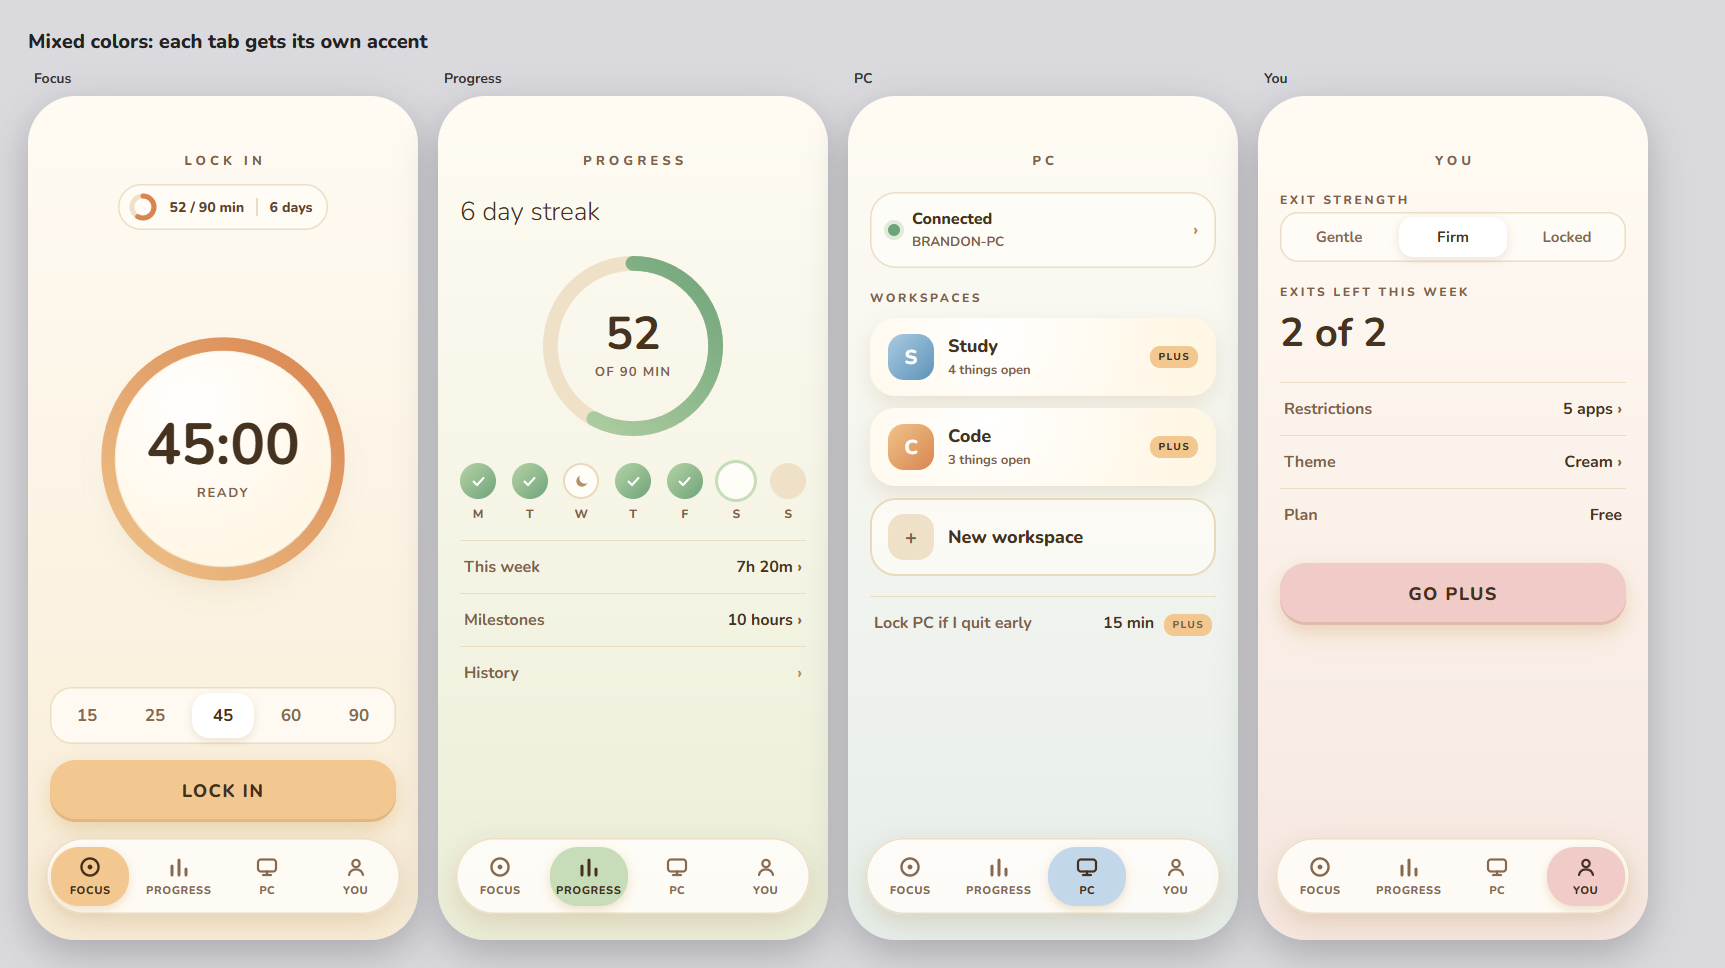
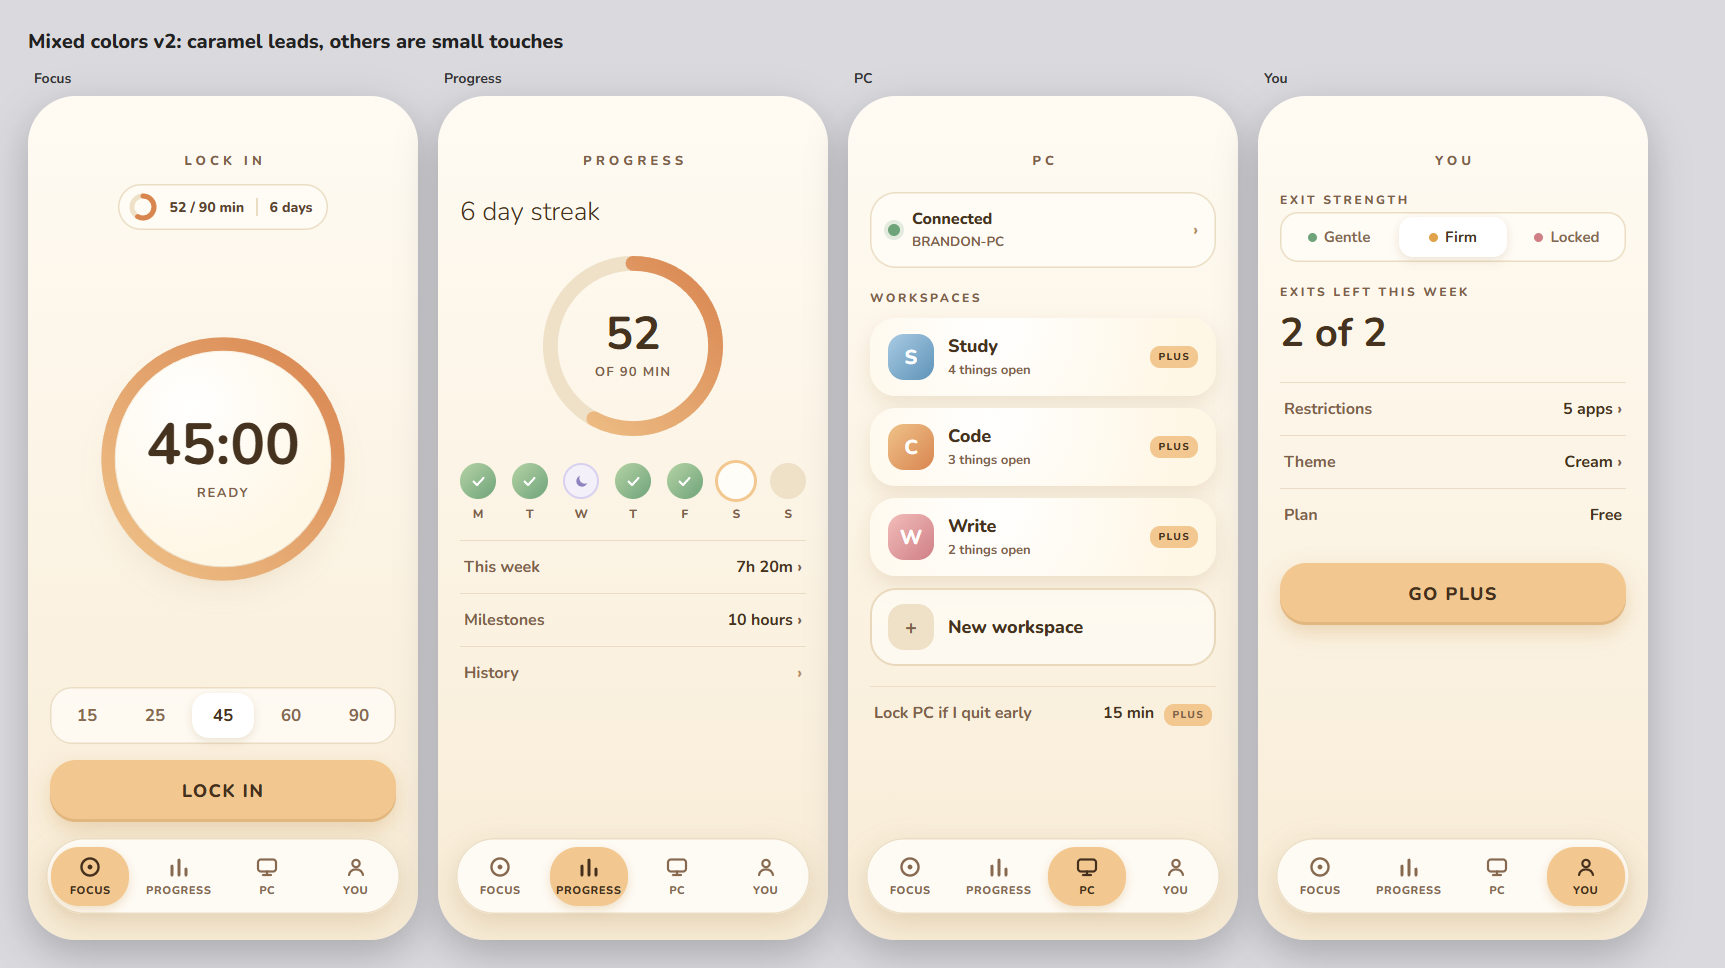
Color mix v2: caramel leads, other colors are small touches

diff --git a/docs/design/colors-ideas.html b/docs/design/colors-ideas.html
@@ -2,7 +2,7 @@
 <html lang="en">
 <head>
 <meta charset="utf-8">
-<title>Lock In mixed colors</title>
+<title>Lock In mixed colors v2</title>
 <meta name="viewport" content="width=device-width, initial-scale=1">
 <link href="https://fonts.googleapis.com/css2?family=Nunito:wght@300;400;600;700;800&display=swap" rel="stylesheet">
 <style>
@@ -13,10 +13,10 @@
   .col p { font-size: 14px; font-weight: 700; color: #333; margin: 0 0 8px 6px; }
   .phone { width: 390px; height: 844px; border-radius: 48px; overflow: hidden; position: relative;
            display: flex; flex-direction: column; align-items: center; padding: 56px 22px 118px;
-           background: linear-gradient(180deg, #FFFBF3 0%, var(--bg2) 100%); color: #45321F; box-shadow: 0 14px 40px rgba(0,0,0,.22); }
+           background: linear-gradient(180deg, #FFFBF3 0%, #F8ECD6 100%); color: #45321F; box-shadow: 0 14px 40px rgba(0,0,0,.22); }
   .title { font-weight: 800; font-size: 13px; letter-spacing: .32em; text-indent: .32em; color: #7D6249; }
   .btn { width: 100%; padding: 19px 0; border-radius: 26px; text-align: center; font-weight: 800; font-size: 18px; letter-spacing: .08em;
-         background: var(--fill); color: #45301D; box-shadow: 0 8px 20px rgba(200,150,80,.30), inset 0 -3px 0 rgba(140,95,40,.16); }
+         background: #F2C890; color: #45301D; box-shadow: 0 8px 20px rgba(200,150,80,.30), inset 0 -3px 0 rgba(140,95,40,.16); }
   .btn.quiet { background: #FFFDF8DD; color: #7A5A3E; box-shadow: inset 0 0 0 2px #E9D8BB; }
 
   /* tab bar */
@@ -24,7 +24,7 @@
           background: #FFFDF8E6; box-shadow: 0 10px 28px rgba(150,110,60,.22), inset 0 0 0 1.5px #EBDDC3; }
   .tab { display: flex; flex-direction: column; align-items: center; gap: 4px; width: 78px; padding: 8px 0; border-radius: 28px; font-size: 11px; font-weight: 800; letter-spacing: .06em; color: #86694F; }
   .tab svg { width: 24px; height: 24px; }
-  .tab.on { background: var(--fill); color: #45301D; box-shadow: 0 4px 10px rgba(200,150,80,.28); }
+  .tab.on { background: #F2C890; color: #45301D; box-shadow: 0 4px 10px rgba(200,150,80,.28); }
 
   .clockwrap { margin: auto 0; position: relative; width: 250px; height: 250px; }
   .clockwrap svg { width: 250px; height: 250px; transform: rotate(-90deg); overflow: visible; }
@@ -46,38 +46,31 @@
   .week { display: flex; justify-content: space-between; width: 100%; margin-top: 16px; }
   .day { display: flex; flex-direction: column; align-items: center; gap: 7px; font-size: 12px; font-weight: 800; color: #7D6249; }
   .dot { width: 36px; height: 36px; border-radius: 50%; background: #EFE1C8; display: grid; place-items: center; }
-  .dot.full { background: linear-gradient(135deg, var(--a1), var(--a2)); color: #fff; }
-  .dot.rest { background: #FFFDF8; box-shadow: inset 0 0 0 2px #E9D8BB; color: #B58E62; }
-  .dot.now { background: #FFFDF8; box-shadow: 0 0 0 3px var(--fill); }
+  .dot.full { background: linear-gradient(135deg, #B5D3A5, #6FA37A); color: #fff; }
+  .dot.rest { background: #F3F0FA; box-shadow: inset 0 0 0 2px #D8D0EE; color: #8F83BF; }
+  .dot.now { background: #FFFDF8; box-shadow: 0 0 0 3px #F2C890; }
   .dot svg { width: 17px; height: 17px; }
   .rows { width: 100%; margin-top: 18px; }
   .row { display: flex; justify-content: space-between; align-items: center; padding: 15px 4px; border-top: 1.5px solid #EBDDC3; font-weight: 700; font-size: 16px; }
   .row span:first-child { color: #7D6249; }
   .cards { width: 100%; display: flex; flex-direction: column; gap: 12px; margin-top: 18px; }
   .card { width: 100%; border-radius: 26px; padding: 16px 18px; display: flex; align-items: center; gap: 14px; background: radial-gradient(circle at 35% 15%, #FFFFFF, #FFF7E6 80%); box-shadow: 0 8px 20px rgba(160,120,60,.16); }
-  .ico { width: 46px; height: 46px; border-radius: 16px; display: grid; place-items: center; background: linear-gradient(135deg, var(--a1), var(--a2)); color: #fff; font-weight: 800; font-size: 20px; }
+  .ico { width: 46px; height: 46px; border-radius: 16px; display: grid; place-items: center; background: linear-gradient(135deg, #F7D3A0, #E39A62); color: #fff; font-weight: 800; font-size: 20px; }
   .card b { font-size: 18px; font-weight: 800; display: block; }
   .card small { font-size: 13px; font-weight: 700; color: #7D6249; }
   .status { width: 100%; margin-top: 22px; border-radius: 26px; padding: 16px 18px; display: flex; align-items: center; gap: 12px; background: #FFFDF8CC; box-shadow: inset 0 0 0 1.5px #EBDDC3; font-weight: 800; }
-  .led { width: 12px; height: 12px; border-radius: 50%; background: #7FB77E; box-shadow: 0 0 0 4px #7FB77E33; }
-  .plus { font-size: 10px; font-weight: 800; letter-spacing: .14em; padding: 4px 8px; border-radius: 10px; background: var(--fill); color: #45301D; }
+  .led { width: 12px; height: 12px; border-radius: 50%; background: #6FA37A; box-shadow: 0 0 0 4px #6FA37A33; }
+  .plus { font-size: 10px; font-weight: 800; letter-spacing: .14em; padding: 4px 8px; border-radius: 10px; background: #F2C890; color: #45301D; }
   .seg { display: flex; gap: 6px; padding: 5px; border-radius: 18px; background: #FFFDF8CC; box-shadow: inset 0 0 0 1.5px #EBDDC3; margin-top: 4px; width: 100%; }
   .seg div { flex: 1; text-align: center; padding: 10px 0; border-radius: 14px; font-weight: 700; font-size: 15px; color: #86694F; }
   .seg div.on { background: #fff; color: #45321F; box-shadow: 0 3px 10px rgba(150,110,60,.18); }
+  .sd { display:inline-block; width:9px; height:9px; border-radius:50%; margin-right:7px; }
   .lab { align-self: flex-start; margin-top: 22px; font-size: 12px; font-weight: 800; letter-spacing: .22em; color: #7D6249; }
   .chev { color: #B58E62; font-weight: 800; }
-
-  .g1 { stop-color: var(--a1); } .g2 { stop-color: var(--a2); }
-  .plus { background: #F2C890 !important; }
-  .P1 { --fill:#F2C890; --a1:#EFC38A; --a2:#D98550; --bg2:#F8ECD6; }
-  .P2 { --fill:#C7DDB9; --a1:#B5D3A5; --a2:#6FA37A; --bg2:#EBEED8; }
-  .P3 { --fill:#C2D8EA; --a1:#A9CBE3; --a2:#5E93B8; --bg2:#E6EEEA; }
-  .P4 { --fill:#F1CBC7; --a1:#F2BDB9; --a2:#CF7F86; --bg2:#F6E7E0; }
-  .led { background:#6FA37A; box-shadow:0 0 0 4px #6FA37A33; }
 </style>
 </head>
 <body>
-<h2>Mixed colors: each tab gets its own accent</h2>
+<h2>Mixed colors v2: caramel leads, others are small touches</h2>
 <div class="phones">
 
 <!-- icons -->
@@ -89,11 +82,11 @@
 </defs></svg>
 
   <div class="col"><p>Focus</p>
-  <div class="phone P1">
+  <div class="phone">
     <div class="title">LOCK IN</div>
-    <div class="today"><svg width="30" height="30" viewBox="0 0 30 30" style="transform:rotate(-90deg)"><circle cx="15" cy="15" r="11" fill="none" stroke="#EFE1C8" stroke-width="5"/><circle cx="15" cy="15" r="11" fill="none" style="stroke:var(--a2)" stroke-width="5" stroke-linecap="round" stroke-dasharray="40 69"/></svg><span>52 / 90 min</span><div class="sep"></div><span>6 days</span></div>
+    <div class="today"><svg width="30" height="30" viewBox="0 0 30 30" style="transform:rotate(-90deg)"><circle cx="15" cy="15" r="11" fill="none" stroke="#EFE1C8" stroke-width="5"/><circle cx="15" cy="15" r="11" fill="none" stroke="#D98550" stroke-width="5" stroke-linecap="round" stroke-dasharray="40 69"/></svg><span>52 / 90 min</span><div class="sep"></div><span>6 days</span></div>
     <div class="clockwrap"><div class="disc"></div>
-      <svg viewBox="0 0 300 300"><defs><linearGradient id="a" x1="0" y1="0" x2="1" y2="1"><stop offset="0" class="g1"/><stop offset="1" class="g2"/></linearGradient></defs><circle cx="150" cy="150" r="138" fill="none" stroke="#EFE1C8" stroke-width="16"/><circle cx="150" cy="150" r="138" fill="none" stroke="url(#a)" stroke-width="16" stroke-linecap="round" stroke-dasharray="867 867"/></svg>
+      <svg viewBox="0 0 300 300"><defs><linearGradient id="a" x1="0" y1="0" x2="1" y2="1"><stop offset="0" stop-color="#EFC38A"/><stop offset="1" stop-color="#D98550"/></linearGradient></defs><circle cx="150" cy="150" r="138" fill="none" stroke="#EFE1C8" stroke-width="16"/><circle cx="150" cy="150" r="138" fill="none" stroke="url(#a)" stroke-width="16" stroke-linecap="round" stroke-dasharray="867 867"/></svg>
       <div class="face"><div class="time">45:00</div><div class="cap">Ready</div></div></div>
     <div class="sel"><div>15</div><div>25</div><div class="on">45</div><div>60</div><div>90</div></div>
     <div class="btn">LOCK IN</div>
@@ -101,10 +94,10 @@
   </div></div>
 
   <div class="col"><p>Progress</p>
-  <div class="phone P2" style="align-items:stretch">
+  <div class="phone" style="align-items:stretch">
     <div class="title" style="align-self:center">PROGRESS</div>
     <div class="big">6 day streak</div>
-    <div class="bigring" style="align-self:center"><svg viewBox="0 0 230 230"><defs><linearGradient id="b" x1="0" y1="0" x2="1" y2="1"><stop offset="0" class="g1"/><stop offset="1" class="g2"/></linearGradient></defs><circle cx="115" cy="115" r="100" fill="none" stroke="#EFE1C8" stroke-width="18"/><circle cx="115" cy="115" r="100" fill="none" stroke="url(#b)" stroke-width="18" stroke-linecap="round" stroke-dasharray="363 628"/></svg><div class="face"><b>52</b><span>OF 90 MIN</span></div></div>
+    <div class="bigring" style="align-self:center"><svg viewBox="0 0 230 230"><defs><linearGradient id="b" x1="0" y1="0" x2="1" y2="1"><stop offset="0" stop-color="#EFC38A"/><stop offset="1" stop-color="#D98550"/></linearGradient></defs><circle cx="115" cy="115" r="100" fill="none" stroke="#EFE1C8" stroke-width="18"/><circle cx="115" cy="115" r="100" fill="none" stroke="url(#b)" stroke-width="18" stroke-linecap="round" stroke-dasharray="363 628"/></svg><div class="face"><b>52</b><span>OF 90 MIN</span></div></div>
     <div class="week">
       <div class="day"><div class="dot full"><svg viewBox="0 0 24 24" fill="none" stroke="currentColor" stroke-width="3" stroke-linecap="round" stroke-linejoin="round"><path d="M5 12l5 5 9-10"/></svg></div>M</div>
       <div class="day"><div class="dot full"><svg viewBox="0 0 24 24" fill="none" stroke="currentColor" stroke-width="3" stroke-linecap="round" stroke-linejoin="round"><path d="M5 12l5 5 9-10"/></svg></div>T</div>
@@ -118,13 +111,14 @@
   </div></div>
 
   <div class="col"><p>PC</p>
-  <div class="phone P3" style="align-items:stretch">
+  <div class="phone" style="align-items:stretch">
     <div class="title" style="align-self:center">PC</div>
     <div class="status"><div class="led"></div><div style="flex:1">Connected<br><small style="font-weight:700;color:#7D6249">BRANDON-PC</small></div><span class="chev">›</span></div>
     <div class="lab">WORKSPACES</div>
     <div class="cards" style="margin-top:12px">
-      <div class="card"><div class="ico">S</div><div style="flex:1"><b>Study</b><small>4 things open</small></div><span class="plus">PLUS</span></div>
+      <div class="card"><div class="ico" style="background:linear-gradient(135deg,#A9CBE3,#5E93B8)">S</div><div style="flex:1"><b>Study</b><small>4 things open</small></div><span class="plus">PLUS</span></div>
       <div class="card"><div class="ico" style="background:linear-gradient(135deg,#EFC38A,#D98550)">C</div><div style="flex:1"><b>Code</b><small>3 things open</small></div><span class="plus">PLUS</span></div>
+      <div class="card"><div class="ico" style="background:linear-gradient(135deg,#F2BDB9,#CF7F86)">W</div><div style="flex:1"><b>Write</b><small>2 things open</small></div><span class="plus">PLUS</span></div>
       <div class="card" style="box-shadow:inset 0 0 0 2px #E9D8BB;background:#FFFDF8AA"><div class="ico" style="background:#EFE1C8;color:#7D6249">+</div><div style="flex:1"><b>New workspace</b></div></div>
     </div>
     <div class="rows" style="margin-top:20px"><div class="row"><span>Lock PC if I quit early</span><span>15 min <span class="plus" style="margin-left:6px">PLUS</span></span></div></div>
@@ -132,10 +126,10 @@
   </div></div>
 
   <div class="col"><p>You</p>
-  <div class="phone P4" style="align-items:stretch">
+  <div class="phone" style="align-items:stretch">
     <div class="title" style="align-self:center">YOU</div>
     <div class="lab">EXIT STRENGTH</div>
-    <div class="seg"><div>Gentle</div><div class="on">Firm</div><div>Locked</div></div>
+    <div class="seg"><div><i class="sd" style="background:#6FA37A"></i>Gentle</div><div class="on"><i class="sd" style="background:#E0A24A"></i>Firm</div><div><i class="sd" style="background:#CF7F86"></i>Locked</div></div>
     <div class="lab">EXITS LEFT THIS WEEK</div>
     <div class="big" style="margin-top:6px;font-size:40px;font-weight:700">2 of 2</div>
     <div class="rows" style="margin-top:22px">

diff --git a/docs/COLOR_MIX.md b/docs/COLOR_MIX.md
@@ -24,6 +24,14 @@ Cream stays the base. Text stays warm brown. Color shows up in the ring, the mai
 
 Each tab also tints the background a little (cream to sage, mint, or blush at the bottom).
 
+## Version 2 (Brandon's feedback: v1 was "all totally different")
+Lesson: a full different color on every tab looks like four apps. Caramel must lead, and the others must be small touches.
+- **Caramel pops most.** All backgrounds stay the same cream. Every ring, main button and selected tab is caramel.
+- **Sage pops a little:** check dots for finished days, the "PC connected" light, "Gentle".
+- **Dusty blue and rose pop least:** only on small workspace icons (Study blue, Write rose) and the "Locked" dot.
+- **Lavender:** rest-day dot only. **Honey:** "Firm" dot.
+- Mock: `docs/design/colors-ideas.png` (this is now v2).
+
 ## Other ways to mix (pick one or two)
 1. **Meaning colors.** Streak honey, rest day lavender, shields-on sage, PC-connected blue, warning terracotta. Same color always means the same thing.
 2. **Workspace colors.** Each PC workspace gets its own color (Study blue, Code caramel, Write rose). The user can change it.
